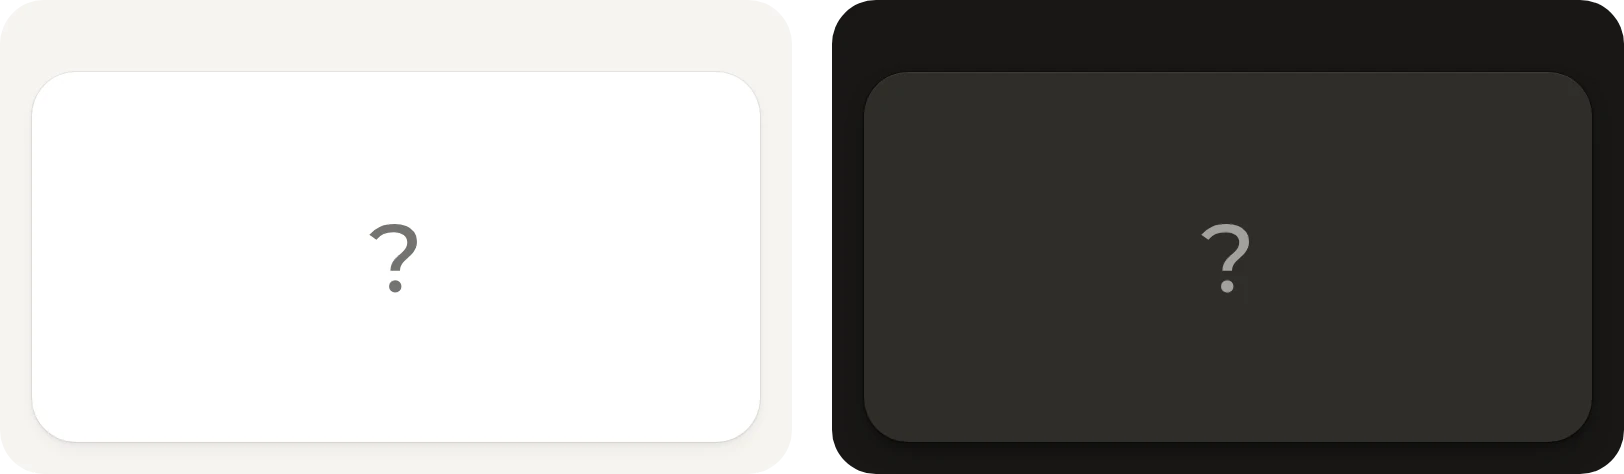
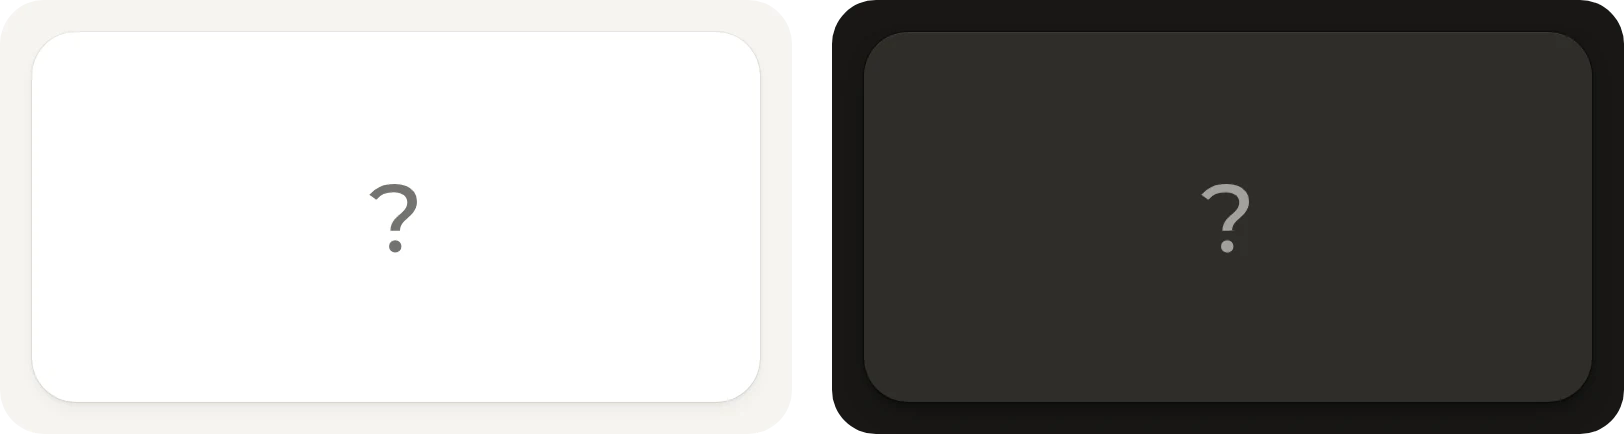
The active scene's box is raised instead of ringed, and the weather image has no margins
- Button: an active box whose field holds a picture or colors takes the color and
  the chip shadow of a key on a gray fill, as a chosen segment does. The ring is
  gone, so nothing comes between the field and the name.
- The weather image shows the placeholder without the card's margins, because a
  card stands on its own there. Only the home view keeps them.

diff --git a/CHANGELOG.md b/CHANGELOG.md
@@ -102,7 +102,7 @@ These changes are in the `next` branch and come with the next release.
 - `active` also matches the entity that a button's tap targets.
 - Each button can have its own `name`, `icon`, `color`, `name_color`, `background` and `order` under an `origami_button` key. Its `color` is also its lamp color while it is lit.
 - A lit button is tinted in its own lamp color, such as the state color of its entity, instead of always the card's.
-- A button with `content_layout: icon-top` is a box like a tile, with its icon in a field above its name, 12 px around the field, 14 px above the text and 18 px below it, and the boxes in a row share one width. A box's name is bold. A lit box tints its field in its own color, as a lit tile does, and a field with a picture or colors gets a ring instead. A button's own `field` fills the field with a picture or a gradient instead of the icon, and its `label` adds a second line under the name, such as a scene's brightness. Both also work with `labels: below`.
+- A button with `content_layout: icon-top` is a box like a tile, with its icon in a field above its name, 12 px around the field, 14 px above the text and 18 px below it, and the boxes in a row share one width. A box's name is bold. A lit box tints its field in its own color, as a lit tile does, and a box whose field holds a picture or colors is raised instead, as a key on a gray fill. A button's own `field` fills the field with a picture or a gradient instead of the icon, and its `label` adds a second line under the name, such as a scene's brightness. Both also work with `labels: below`.
 - A button with `css_class: divider` is a short line between two buttons.
 - The active segment of a bar or a small switch has the fill of an active button with `active_style: toggle`, and it casts the chip shadow.
 - On a button card, a lit button has the tint of the card's lit icon. On a tile, the buttons have the card background and the chip shadow, as keys do.
@@ -154,7 +154,7 @@ These changes are in the `next` branch and come with the next release.
 - The pop-ups no longer set `shadow_opacity`, because Popup gives every pop-up the theme's shadow.
 - The navbar follows the rules of the Bubble cards. A line along the bottom of the now playing card shows how far the track has played.
 - The favorites come in two versions with the same favorites: a row of boxes that scrolls sideways, each with its icon and a short name, like the scenes in the lights pop-up, and a grid of tiles for a larger screen. The README shows both.
-- The lights pop-up shows how many lamps are on and since when. Each scene shows its colors in a rounded square, with the theme's corners, and its brightness under its name, and a ring marks the active scene.
+- The lights pop-up shows how many lamps are on and since when. Each scene shows its colors in a rounded square, with the theme's corners, and its brightness under its name, and the active scene's box is raised, as a key on a gray fill.
 - The weather card shows the forecast for the week and a two-story house whose rooms light up and show their temperature. Rain and snow fall in front of the house, and its images load from the repository, so a home needs no files of its own.
 
 ### Bug fixes

diff --git a/bubble_card/README.md b/bubble_card/README.md
@@ -940,7 +940,7 @@ Each button can have an `origami_button` key with `name`, `icon`, `color`, `name
     background: var(--tint)
 ```
 
-With `content_layout: icon-top` or `icon-bottom`, a button is a box like a tile, with its icon in a field above or below its name, as the scenes in the [lights pop-up](../dashboard/lights/README.md) and the [favorites](../dashboard/favorites/README.md). The field has 12 px of the box around it, the name stands 14 px below the field, and the last line ends 18 px above the box's edge. The boxes in a row share one width. A box's name is bold, as a tile's is. A highlighted box keeps its fill, and its field is tinted in the button's own color, as a lit tile's icon is. A field with a picture or colors keeps them and gets a ring instead, as a chosen color swatch does. With `background: false`, the box and the field have no fill.
+With `content_layout: icon-top` or `icon-bottom`, a button is a box like a tile, with its icon in a field above or below its name, as the scenes in the [lights pop-up](../dashboard/lights/README.md) and the [favorites](../dashboard/favorites/README.md). The field has 12 px of the box around it, the name stands 14 px below the field, and the last line ends 18 px above the box's edge. The boxes in a row share one width. A box's name is bold, as a tile's is. A highlighted box keeps its fill, and its field is tinted in the button's own color, as a lit tile's icon is. A box whose field holds a picture or colors keeps them and is raised instead, as a key on a gray fill: it takes that key's color and the chip shadow, as a chosen segment does. With `background: false`, the box and the field have no fill.
 
 A button's own `order` moves it in the row, such as `-1` to the front, and a map from its state moves it only in those states. In a box or with `labels: below`, its own `field` fills the field with a picture or colors instead of the icon, such as a recipe photo or a scene's colors, and its own `label` is a second line under the name, such as a scene's brightness. A gradient needs quotes, because YAML reads `#` as the start of a comment:
 

diff --git a/dashboard/lights/README.md b/dashboard/lights/README.md
@@ -17,7 +17,7 @@ All lamps of a room at once or each one on its own, and the room's scenes.
 
 ## Optional
 
-- **Scenes.** For a room with [scenes](https://www.home-assistant.io/docs/scene/): a box for each scene with its colors, its name and its brightness, starting with the scene for the time of day. While a lamp is on, a ring marks the scene turned on last. Change the buttons in the group **Scenes** to the room's scenes, and list the same scenes under `active`. Without scenes, delete the card with the scenes.
+- **Scenes.** For a room with [scenes](https://www.home-assistant.io/docs/scene/): a box for each scene with its colors, its name and its brightness, starting with the scene for the time of day. While a lamp is on, the box of the scene turned on last is raised. Change the buttons in the group **Scenes** to the room's scenes, and list the same scenes under `active`. Without scenes, delete the card with the scenes.
 
 > [!TIP]
 > A scene's `field` is a gradient of its colors and its `label` its brightness, such as `45 %`, written as the slider writes it. `start` names a `css_class` for each time of day, so the row begins with the scene that fits. A scene without a `field` shows its icon.
